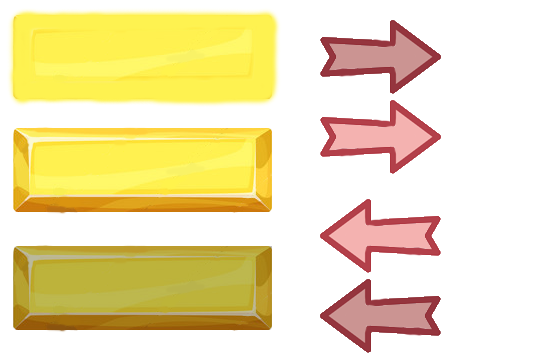
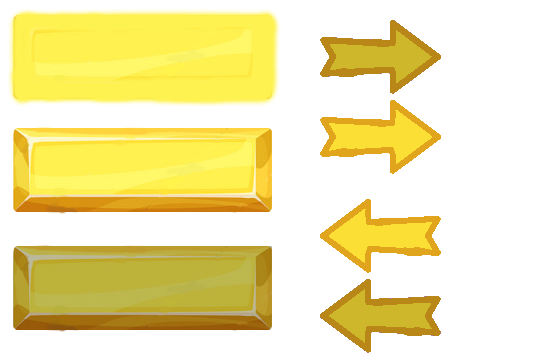
Changed options menu color palette

Changed region(s): [[0.5905, 0.5531, 0.808, 0.9832], [0.5905, 0.0615, 0.808, 0.4916]]

diff --git a/WLTDJ3/Motor2D/StatBar.cpp b/WLTDJ3/Motor2D/StatBar.cpp
@@ -39,5 +39,5 @@ void StatBar::Update()
 
 void StatBar::Draw()
 {
-	App->render->DrawQuad(bar, 255, 0, 0, 255, true, false);
+	App->render->DrawQuad(bar, 253, 212, 62, 255, true, false);
 }
